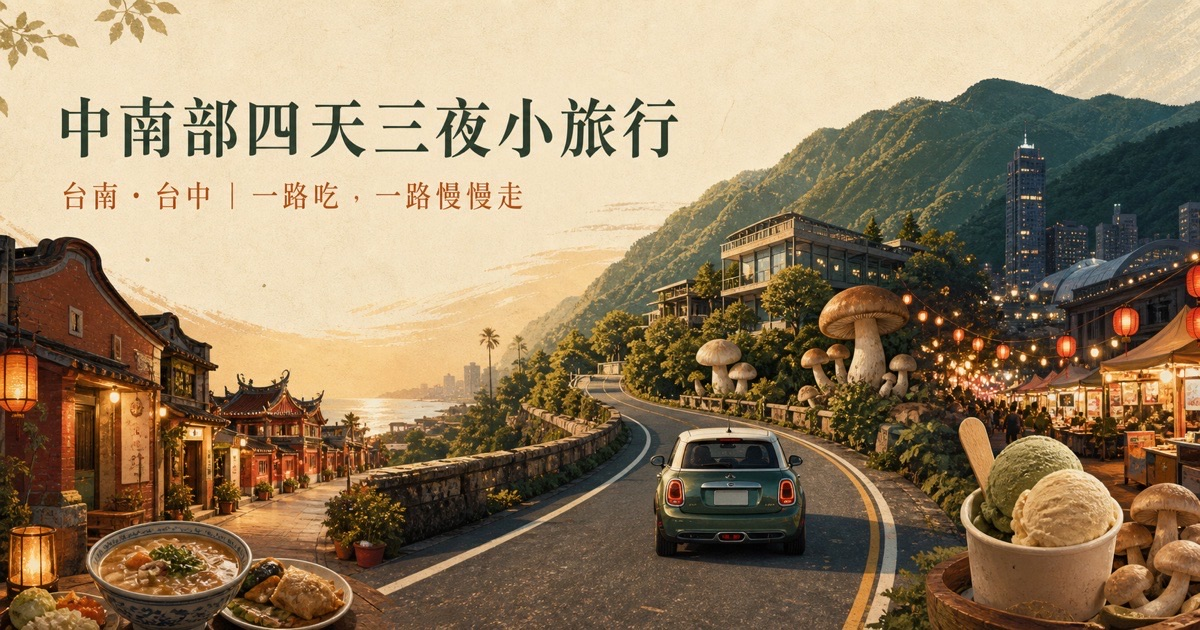
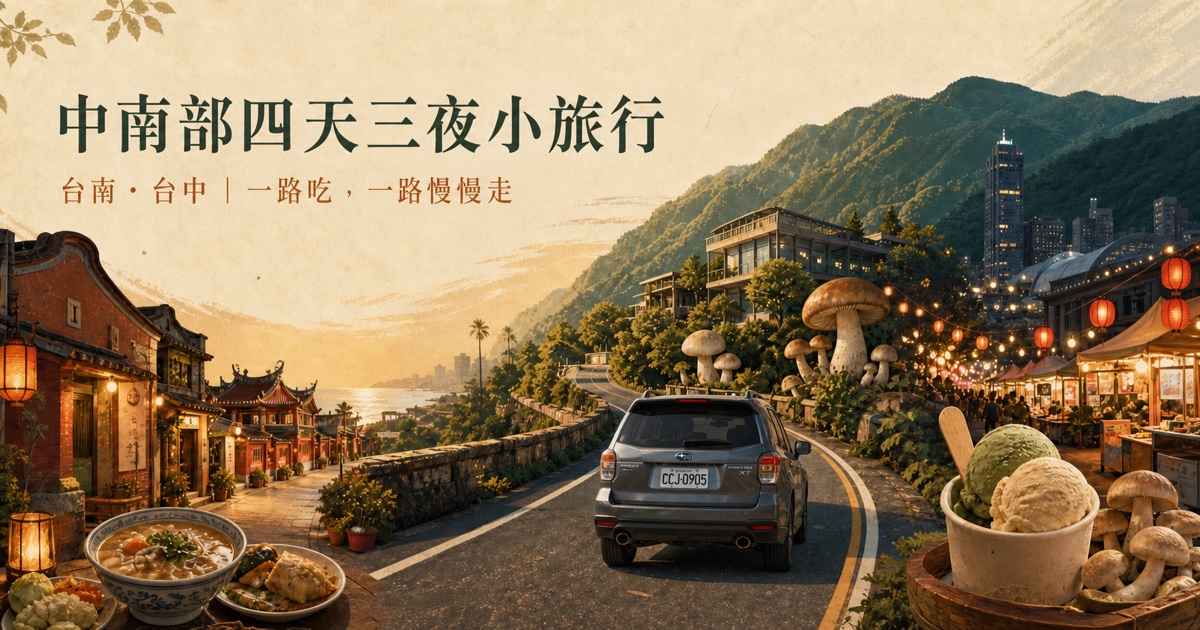
Refresh itinerary stops and matching photos

diff --git a/app/page.tsx b/app/page.tsx
@@ -63,8 +63,8 @@ const days: Day[] = [
         area: "中西區",
         cost: "依消費而定",
         note: "從永樂市場一路吃：富盛號碗粿、阿松割包，看到想吃的就少量分食，為後面留胃。",
-        image: "/images/beef-soup.jpg",
-        imageAlt: "台南國華街在地小吃情境",
+        image: "/images/yongle-market.jpg",
+        imageAlt: "台南國華街永樂市場街景",
         mapQuery: "台南國華街永樂市場",
         badge: "必吃",
       },
@@ -75,8 +75,8 @@ const days: Day[] = [
         area: "東門路二段",
         cost: "依消費而定",
         note: "營業時間 13:00–21:30。先確認尺寸與配戴舒適度，再挑喜歡的款式與鏡片。",
-        image: "/images/anping-street.jpg",
-        imageAlt: "台南街區購物情境",
+        image: "/images/helmet-shop.jpg",
+        imageAlt: "陳列各式機車安全帽的專賣店",
         mapQuery: "台南市東門路二段 安全帽店",
         badge: "採買",
       },
@@ -87,8 +87,8 @@ const days: Day[] = [
         area: "安平／中西區",
         cost: "已預訂",
         note: "先辦理入住、放行李。補水休息一下，傍晚再輕裝出門。",
-        image: "/images/hotel-room.jpg",
-        imageAlt: "溫暖舒適的旅宿房間情境",
+        image: "/images/heart-guesthouse.jpg",
+        imageAlt: "台南心宅老屋民宿",
         mapQuery: "台南 心宅 住宿",
         badge: "入住",
       },
@@ -99,8 +99,8 @@ const days: Day[] = [
         area: "安平區",
         cost: "依點餐而定",
         note: "用餐尖峰前抵達，品嚐台南溫體牛的鮮甜。若想多吃幾樣，建議湯與熱炒分食。",
-        image: "/images/beef-soup.jpg",
-        imageAlt: "台南牛肉湯",
+        image: "/images/wenzhang-beef-soup.jpg",
+        imageAlt: "台南文章牛肉湯安平店",
         mapQuery: "文章牛肉湯 安平店",
         badge: "台南味",
       },
@@ -115,6 +115,18 @@ const days: Day[] = [
         imageAlt: "燈火熱鬧的台南花園夜市",
         mapQuery: "台南花園夜市",
         badge: "夜生活",
+      },
+      {
+        period: "晚上",
+        time: "21:45 — 22:30",
+        title: "神農街夜間漫步",
+        area: "中西區",
+        cost: "—",
+        note: "夜市後到神農街慢慢散步，欣賞老屋、燈籠與入夜後的街景。若當天較疲累，也可彈性縮短停留時間。",
+        image: "/images/shennong-street.jpg",
+        imageAlt: "燈籠映照的台南神農街夜景",
+        mapQuery: "台南神農街",
+        badge: "夜間散策",
       },
     ],
   },
@@ -156,8 +168,8 @@ const days: Day[] = [
         area: "中西區",
         cost: "依消費而定",
         note: "把昨天錯過的口袋名單補齊，再用一碗冰收尾。避開正午後，走逛更舒服。",
-        image: "/images/beef-soup.jpg",
-        imageAlt: "台南街頭美食情境",
+        image: "/images/yongle-market.jpg",
+        imageAlt: "台南國華街永樂市場美食街區",
         mapQuery: "台南國華街 美食 冰品",
         badge: "二刷",
       },
@@ -168,8 +180,8 @@ const days: Day[] = [
         area: "中西區・衛民街",
         cost: "依消費而定",
         note: "13:00–18:00 營業的巷弄日式器皿選物店。易碎品建議請店家加強包裝，回旅宿再整理。",
-        image: "/images/anping-street.jpg",
-        imageAlt: "台南巷弄選物散步情境",
+        image: "/images/luzao-tableware.jpg",
+        imageAlt: "台南餐桌上的鹿早老屋器皿選物店",
         mapQuery: "餐桌上的鹿早 衛民街",
         badge: "選物",
       },
@@ -180,8 +192,8 @@ const days: Day[] = [
         area: "中西區",
         cost: "已預訂",
         note: "入住休息、放置採買戰利品。晚間行程以散步為主，不必帶太多東西。",
-        image: "/images/hotel-room.jpg",
-        imageAlt: "質感旅宿房間情境",
+        image: "/images/28-the-loft.jpg",
+        imageAlt: "台南 28 The Loft 客房實景",
         mapQuery: "28 The Loft 台南",
         badge: "入住",
       },
@@ -237,8 +249,8 @@ const days: Day[] = [
         area: "西區・審計新村",
         cost: "依消費而定",
         note: "先吃一球 Gelato，再散步逛審計新村。造型可愛、口味精緻，適合拍一張旅行紀念。",
-        image: "/images/shennong-street.jpg",
-        imageAlt: "老屋街區與甜點散步情境",
+        image: "/images/sweet-moon-gelato.jpg",
+        imageAlt: "台中審計新村甜月亮義大利手工冰淇淋",
         mapQuery: "甜月亮義大利手工冰淇淋 審計新村",
         badge: "甜點",
       },
@@ -249,8 +261,8 @@ const days: Day[] = [
         area: "西屯區",
         cost: "已預訂",
         note: "鄰近逢甲夜市，先停好車、放行李。晚餐有訂位，休息時間記得設提醒。",
-        image: "/images/hotel-room.jpg",
-        imageAlt: "台中旅宿房間情境",
+        image: "/images/explore-hotel.jpg",
+        imageAlt: "台中探索私旅飯店外觀",
         mapQuery: "探索私旅 台中",
         badge: "入住",
       },
@@ -261,8 +273,8 @@ const days: Day[] = [
         area: "西屯區",
         cost: "已訂位",
         note: "已預訂 17:00，請準時抵達。從旅宿出發前先看車程與停車位置，避免壓縮用餐時間。",
-        image: "/images/xinshe-mushroom.jpg",
-        imageAlt: "台中山產與燒烤美食情境",
+        image: "/images/laojing-bbq.jpg",
+        imageAlt: "台中老井極上燒肉福科店",
         mapQuery: "老井極上燒肉 福科店",
         badge: "已訂位",
       },
@@ -294,8 +306,8 @@ const days: Day[] = [
         area: "西屯區",
         cost: "—",
         note: "檢查充電器、冰箱與浴室小物，行李上車後準備享用回程前的午餐。",
-        image: "/images/hotel-room.jpg",
-        imageAlt: "旅宿退房前的舒適房間",
+        image: "/images/explore-hotel.jpg",
+        imageAlt: "台中探索私旅飯店外觀",
         mapQuery: "探索私旅 台中",
         badge: "退房",
       },
@@ -306,8 +318,8 @@ const days: Day[] = [
         area: "南屯區",
         cost: "依點餐而定",
         note: "想吃香麻麵食選麵由辛生；想快速熱炒選大埔鐵板燒。南屯離交流道近，吃完順勢北上。",
-        image: "/images/beef-soup.jpg",
-        imageAlt: "熱騰騰的台式午餐情境",
+        image: "/images/noodle-lunch.jpg",
+        imageAlt: "台中麵由辛生南屯店麻辣麵食",
         mapQuery: "麵由辛生 南屯店",
         badge: "二選一",
       },
@@ -328,16 +340,22 @@ const days: Day[] = [
 ];
 
 const imageCredits = [
+  ["國華街永樂市場", "https://marketoffice.tainan.gov.tw/News_Content.aspx?n=44648&s=8749104"],
   ["國立臺灣歷史博物館", "https://commons.wikimedia.org/wiki/File:%E5%9C%8B%E7%AB%8B%E8%87%BA%E7%81%A3%E6%AD%B7%E5%8F%B2%E5%8D%9A%E7%89%A9%E9%A4%A8_01.jpg"],
-  ["台南安平街屋", "https://commons.wikimedia.org/wiki/File:Anping_Taiwan_Old-houses-of-Anping-01.jpg"],
-  ["台南牛肉湯", "https://commons.wikimedia.org/wiki/File:16-%E5%8F%B0%E5%8D%97%E6%97%A9%E9%A4%90%E5%9C%8B%E8%8F%AF%E8%A1%97%E9%98%BF%E6%9D%91%E7%89%9B%E8%82%89%E6%B9%AF%EF%BC%8C%E5%8F%B0%E5%8D%97%E7%9C%9F%E5%A5%BD_(29484622036).jpg"],
+  ["心宅", "https://www.dearbnb.com/zh/bnb/made-in-heart-guesthouse/"],
+  ["文章牛肉湯", "https://www.bigfang.tw/blog/post/winchangbeef-main-tainan"],
   ["花園夜市", "https://commons.wikimedia.org/wiki/File:The_Garden_Night_Market_in_Tainan_2014-05-29.jpg"],
   ["丹丹漢堡", "https://commons.wikimedia.org/wiki/File:%E4%B8%B9%E4%B8%B9%E6%BC%A2%E5%A0%A1_Dain_Dain_Burger_(30841133482).jpg"],
   ["左鎮化石園區", "https://commons.wikimedia.org/wiki/File:%E8%87%BA%E5%8D%97%E5%B7%A6%E9%8E%AE%E5%8C%96%E7%9F%B3%E5%9C%92%E5%8D%80.jpg"],
+  ["餐桌上的鹿早", "https://flower033880.pixnet.net/blog/posts/8232819060"],
+  ["28 The Loft", "https://life.tw/?app=view&no=1318980"],
   ["神農街", "https://commons.wikimedia.org/wiki/File:%E7%A5%9E%E8%BE%B2%E8%A1%97_Shennong_Street_Tainan_City02.jpg"],
   ["新社採菇", "https://commons.wikimedia.org/wiki/File:%E5%8F%B0%E4%B8%AD%E6%96%B0%E7%A4%BE%E6%8E%A1%E8%8F%87.jpg"],
+  ["甜月亮 Gelato", "https://baofamily.tw/dlgelato/"],
+  ["探索私旅", "https://ericgo.com/taiwan-taichung-explorehotel/"],
+  ["老井燒肉福科店", "https://supertaste.tvbs.com.tw/food/354114"],
   ["逢甲夜市", "https://commons.wikimedia.org/wiki/File:1_fengjia_night_market_2019.jpg"],
-  ["旅宿情境", "https://commons.wikimedia.org/wiki/File:Guest_Room_in_22F_Shangri-La%27s_Far_Eastern_Plaza_Hotel,_Tainan_01_20260324.jpg"],
+  ["麵由辛生南屯店", "https://footinder.com.tw/%E5%8F%B0%E4%B8%AD%E5%B8%82%E5%8D%97%E5%B1%AF%E5%8D%80/137095/"],
   ["台灣公路", "https://commons.wikimedia.org/wiki/File:202603_Town_entrance_of_Hukou_Township_,Hsinchu_County_TW_PHW1.jpg"],
 ];
 
@@ -559,7 +577,7 @@ export default function Home() {
         </div>
         <details>
           <summary>照片來源與授權資訊</summary>
-          <p>景點與情境照片取自 Wikimedia Commons；各照片授權依原始頁面標示。分享封面為本站專屬生成圖像。</p>
+          <p>景點照片取自政府、旅宿與旅遊媒體公開頁面及 Wikimedia Commons；各照片權利依原始頁面標示。安全帽店情境與分享封面為本站專屬生成圖像。</p>
           <ul>
             {imageCredits.map(([label, url]) => (
               <li key={url}><a href={url} target="_blank" rel="noreferrer">{label}</a></li>